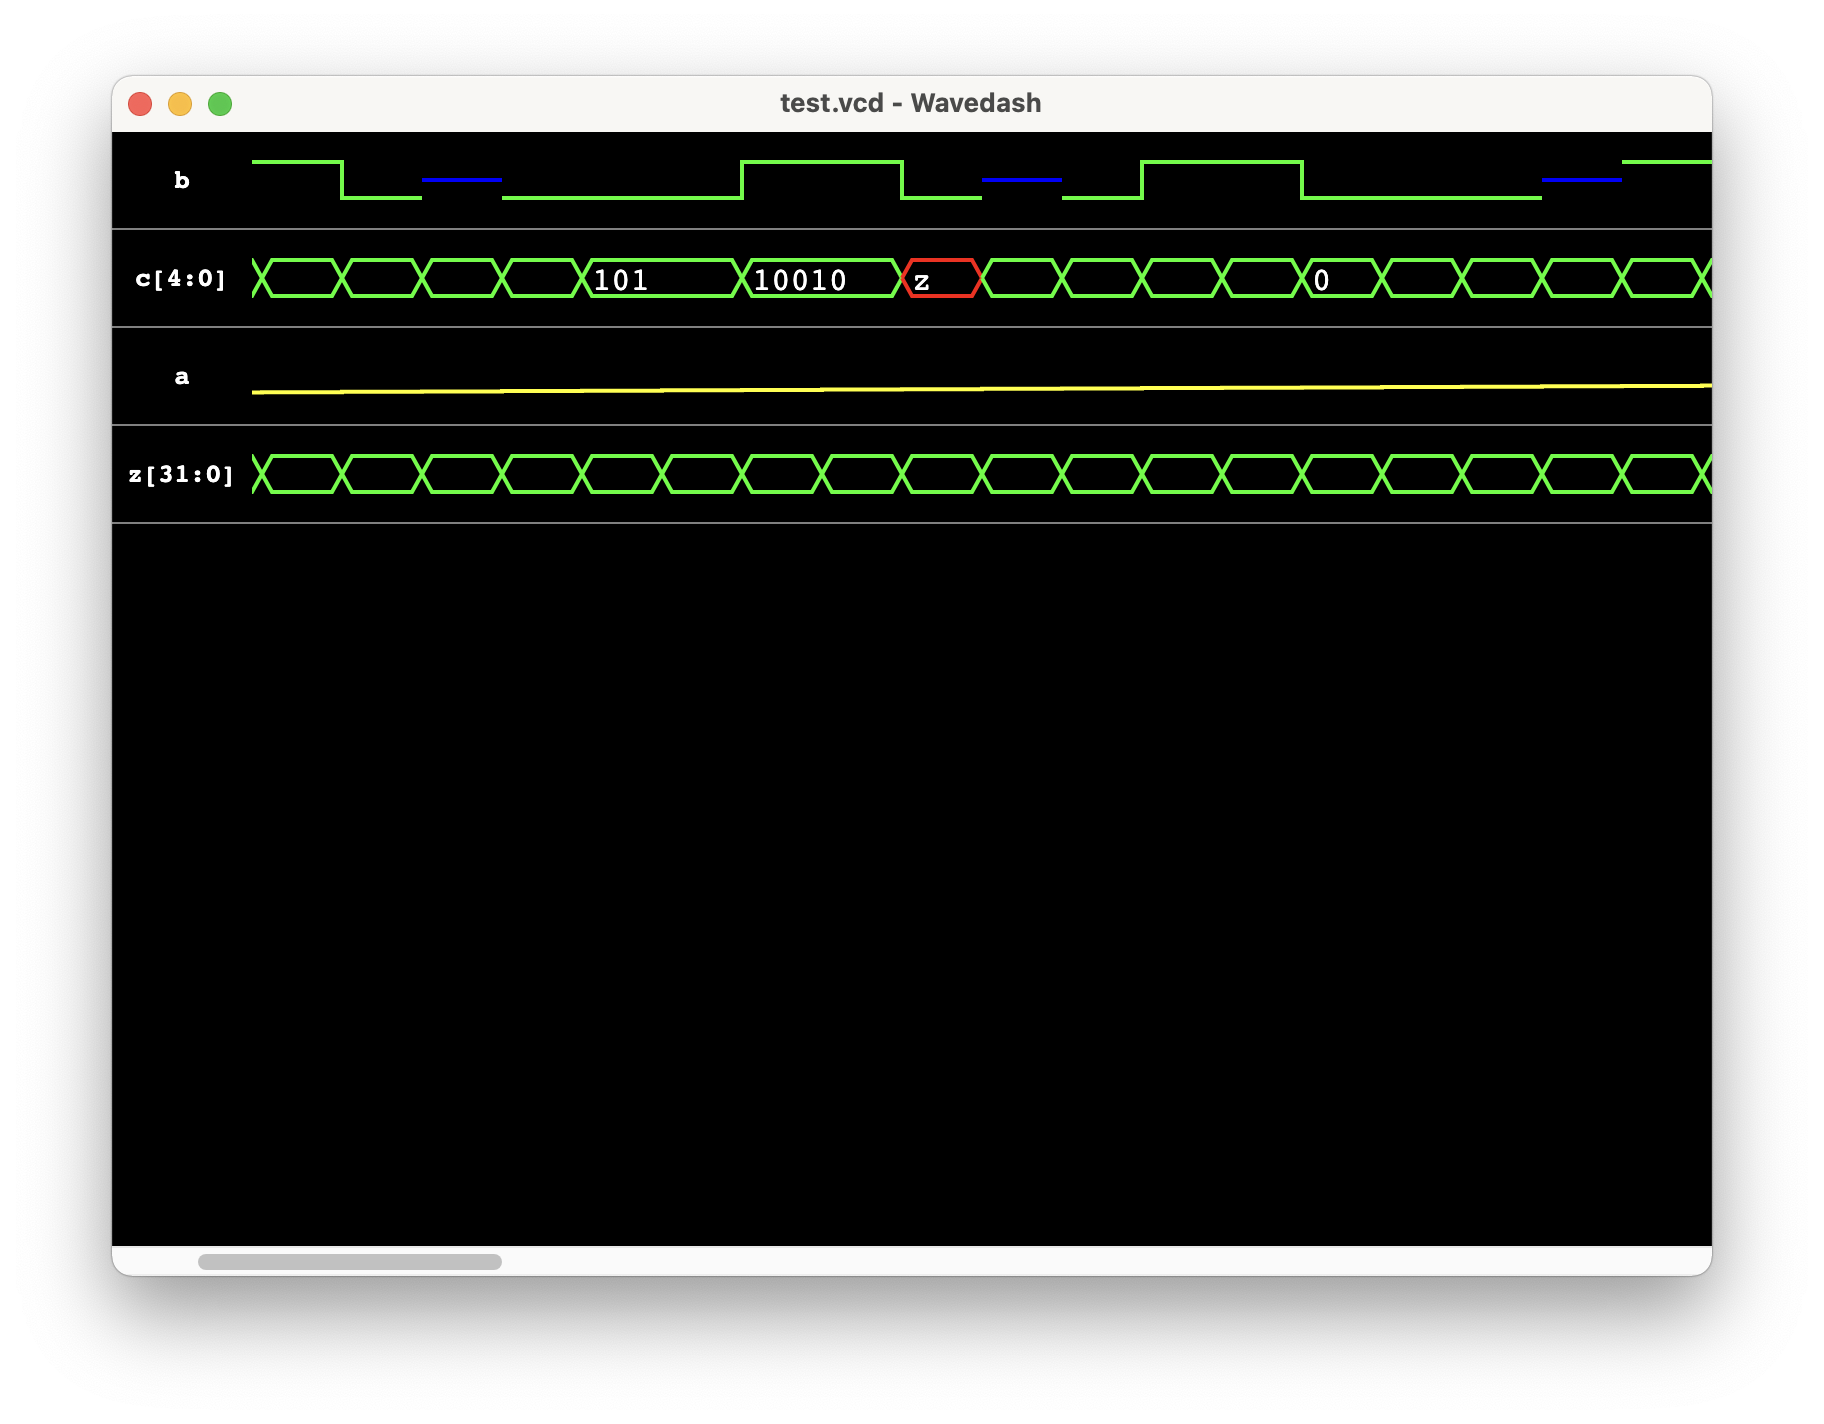
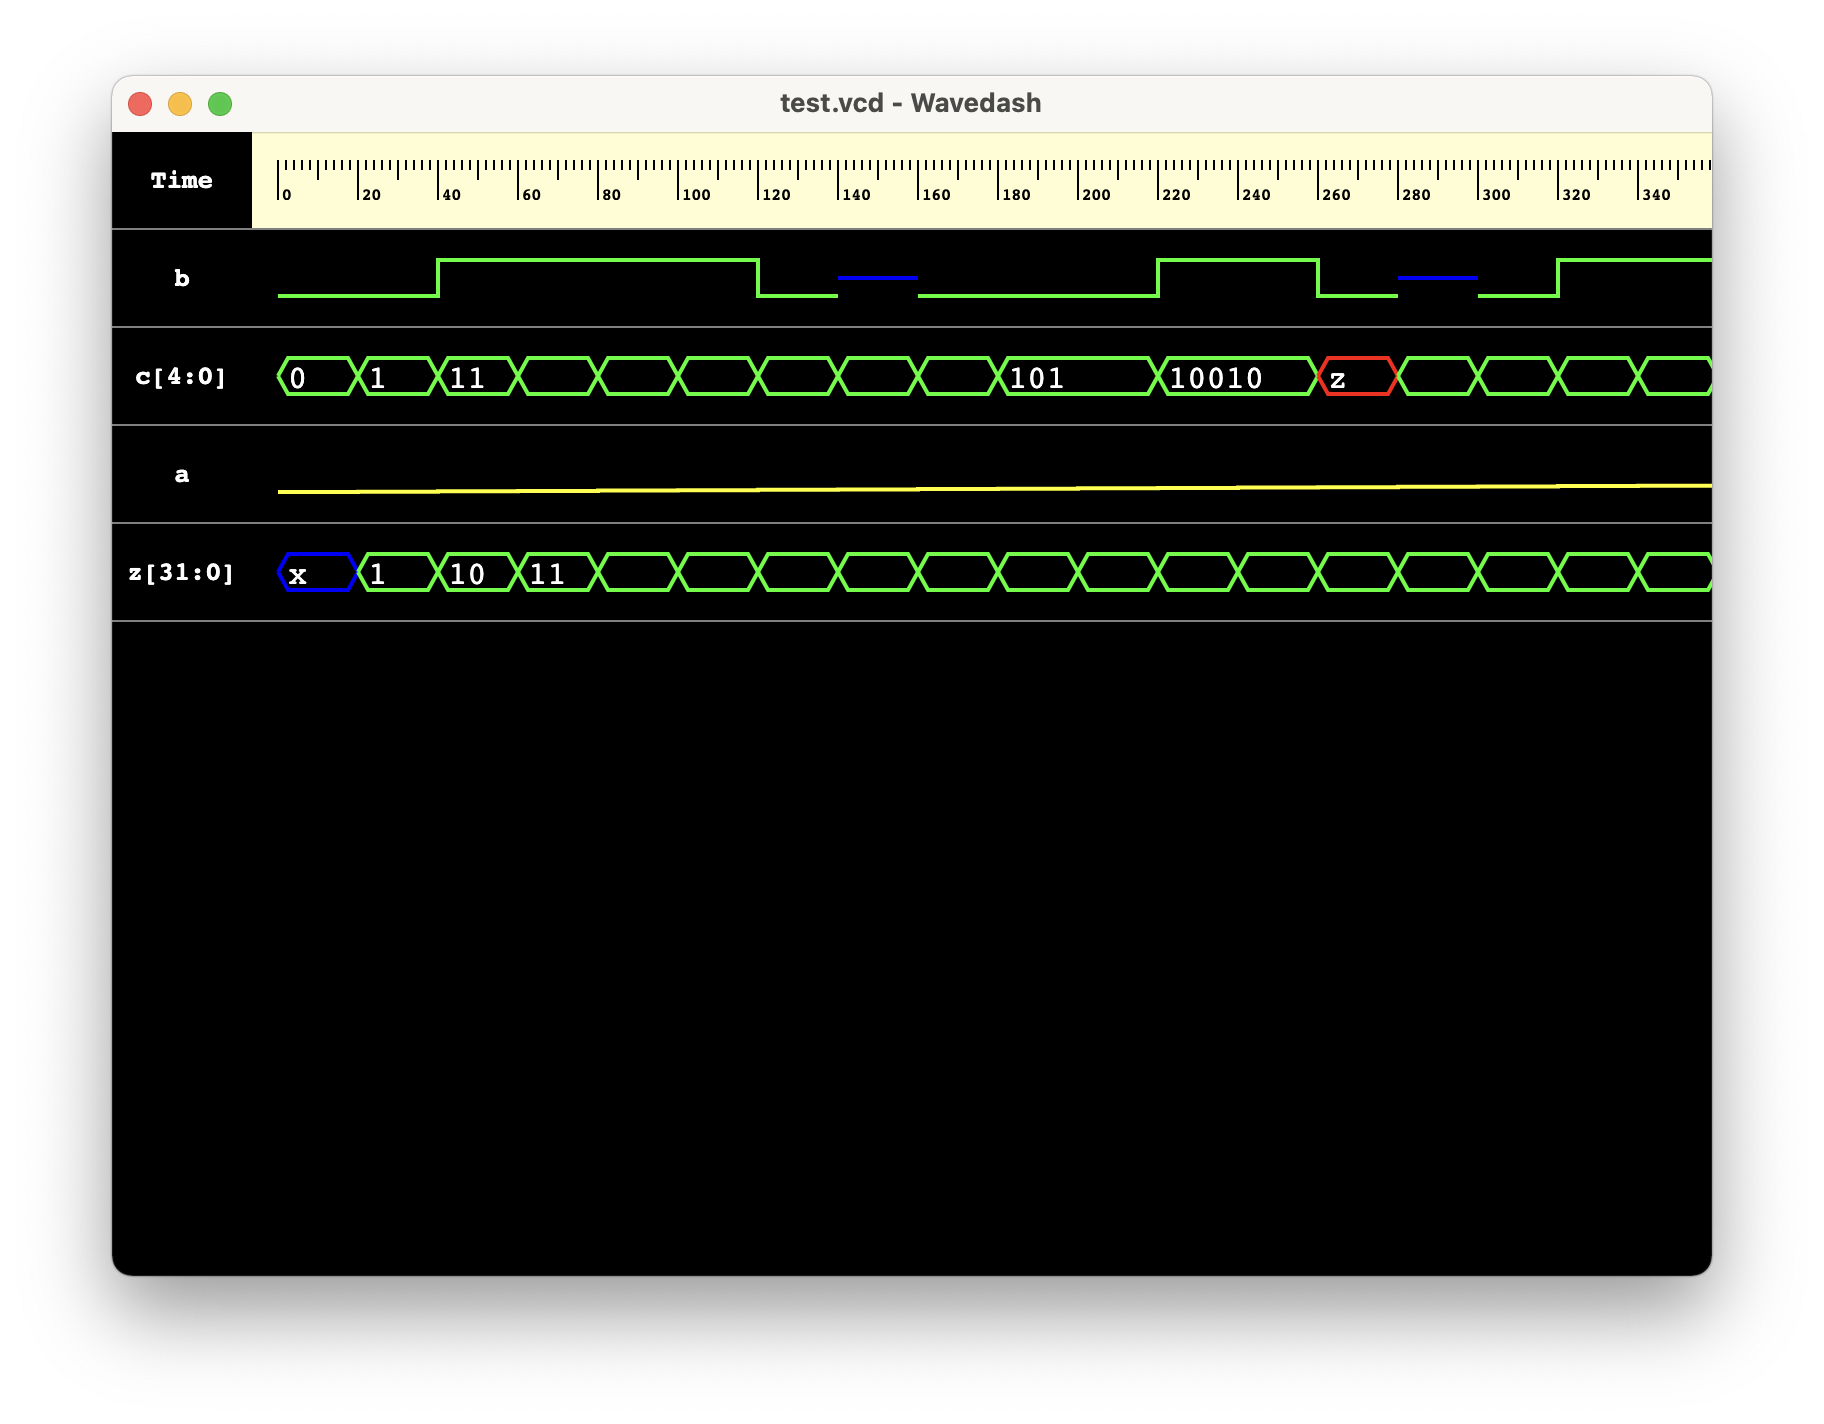
Added Time Ruler

diff --git a/lib/svg.js b/lib/svg.js
@@ -10,24 +10,85 @@ const defaultConfig = {
         digital: "#00FF00",
         real: "#FFFF00",
         impedance: "#FF0000",
-        unknown: "#0000FF"
+        unknown: "#0000FF",
+
+        ruler: "#000000"
     },
 
-    endTime: null
+    endTime: 3000
 };
 
-export function fromSignal(signal, endTime, config = null) {
+const START_DISPLACEMENT = 5;
+const RULER_PIXEL_COUNT = 4;
+
+export function normalizeConfig(config) {
+    config = config ?? {};
+    let finalConfig = {};
+
+    for (let element in defaultConfig) {
+        finalConfig[element] = config[element] ?? defaultConfig[element];
+    }
+
+    return finalConfig;
+}
+
+export function ruler(config) {
+
+    config = normalizeConfig(config);
+
+    let { height, width, colors, endTime } = config;
+    let color = colors.ruler;
+
+    let path = `<path stroke="${color}" fill="transparent" stroke-width="1" d="`;
+
+    let text = [];
+    for (let i = 0; i <= (endTime * width) / RULER_PIXEL_COUNT; i += 1) {
+        let dx = i * RULER_PIXEL_COUNT;
+        let t = dx / width;
+        let x = START_DISPLACEMENT + dx;
+        path += `M ${x} 0 `;
+        let currentHeight = height / 4;
+        if (i % 5 === 0) {
+            currentHeight = height / 2;
+        }
+        if (i % 10 === 0) {
+            currentHeight = height;
+            text.push(`
+                <text
+                    x="${x + RULER_PIXEL_COUNT / 2}"
+                    y="${height}"
+                    fill="${color}"
+                    font-size="${height * 0.4}"
+                >${
+                    t 
+                }</text>
+            `);
+        }
+        path += `l 0 ${currentHeight} `;
+    }
+
+    path += `"/>`;
+
+    return `
+        <svg version="1.1"
+        baseProfile="full"
+        width="${endTime * width}" height="${height}"
+        viewbox="0 0 ${endTime * width} ${height}"
+        xmlns="http://www.w3.org/2000/svg"
+        >
+            ${path}
+            ${text.join("\n")}
+        </svg>
+    `;
+}
+
+export function fromSignal(signal, config = null) {
     let { wave, size, type } = signal;
 
     let real = type === "real";
 
-    config = config ?? {};
-
-    for (let element in defaultConfig) {
-        config[element] = config[element] ?? defaultConfig[element];
-    }
-
-    let { height, width, strokeWidth, colors } = config;
+    config = normalizeConfig(config);
+    let { height, width, strokeWidth, colors, endTime } = config;
 
     const fontSize = height * 0.8;
 
@@ -64,7 +125,7 @@ export function fromSignal(signal, endTime, config = null) {
         }
         if (color) {
             let [x, y] = at;
-            paths.push(`<path stroke="${color}" fill="transparent" stroke-width="${strokeWidth}" d="M ${x} ${y}`);
+            paths.push(`<path stroke="${color}" fill="transparent" stroke-width="${strokeWidth}" d="M ${x + START_DISPLACEMENT} ${y}`);
         }
     };
 
@@ -199,13 +260,13 @@ export function fromSignal(signal, endTime, config = null) {
             
                 text.push(`
                     <text
-                        x="${from * width + slopeWidth}"
+                        x="${START_DISPLACEMENT + from * width + slopeWidth}"
                         y="${height * 0.8}"
                         fill="white"
                         font-size="${height * 0.8}"
                     >${
                         rawValue
-                }</text>
+                    }</text>
                 `);
 
             }

diff --git a/lib/wavedash.js b/lib/wavedash.js
@@ -1,4 +1,4 @@
-import { fromSignal } from "./svg";
+import { fromSignal, ruler } from "./svg";
 import VCDParser from "cloudv-vcd-parser";
 
 import { g, n } from "./tinydom.js";
@@ -16,12 +16,31 @@ export class Wavedash {
     async attach() {
         this.parsed = await VCDParser.parse(this.vcd);
         let { signal: signals, endtime } = this.parsed;
+        this.config.endTime = endtime;
         this.domElement.innerHTML = "";
         let table = n("table", e=> {
             e.className = "wavedash";
+            e.appendChild(n("tr", e=> {
+                e.appendChild(n("th", e=> {
+                    e.className = "header";
+                    e.appendChild(n("div", e=> {
+                        e.className = "wavedash_cell";
+                        e.innerHTML = "Time";
+                    }));
+                }))
+                e.appendChild(n("th", e=> {
+                    e.className = "column-header";
+                    e.appendChild(n("div", e=> {
+                        e.className = "wavedash_cell";
+                        e.innerHTML = ruler(this.config);
+                    }));
+                    e.style = "background-color: #FFFDD0;"
+                }))
+            }))
             for (let signal of signals) {
                 e.appendChild(n("tr", e=> {
                     e.appendChild(n("th", e=> {
+                        e.className = "row-header";
                         e.appendChild(n("div", e=> {
                             e.className = "wavedash_cell";
                             e.innerHTML = signal.signalName;
@@ -31,7 +50,7 @@ export class Wavedash {
                     e.appendChild(n("td", e=> {
                         e.appendChild(n("div", e=> {
                             e.className = "wavedash_cell";
-                            e.innerHTML = fromSignal(signal, endtime, this.config);
+                            e.innerHTML = fromSignal(signal, this.config);
                         }));
                     }));
                 }));        

diff --git a/lib/wavedash.css b/lib/wavedash.css
@@ -13,8 +13,24 @@ div.wavedash_cell {
     padding: 1em 0.5em 1em 0.5em;
 }
 
-table.wavedash th {
+th.header {
+    left: 0px;
+    top: 0px;
+    position: sticky;
+    background-color: black;
+    z-index: 15;
+}
+
+th.row-header {
     left: 0px;
     position: sticky;
+    background-color: black;
+    z-index: 10;
+}
+
+th.column-header {
+    top: 0px;
+    position: sticky;
+    z-index: 5;
     background-color: black;
 }

diff --git a/src/app.js b/src/app.js
@@ -81,6 +81,7 @@ async function main() {
     if (query["load_url"]) {
         let res = await axios(query["load_url"]);
         window.vcd = res.data;
+        window.load();
     }
     
 }
